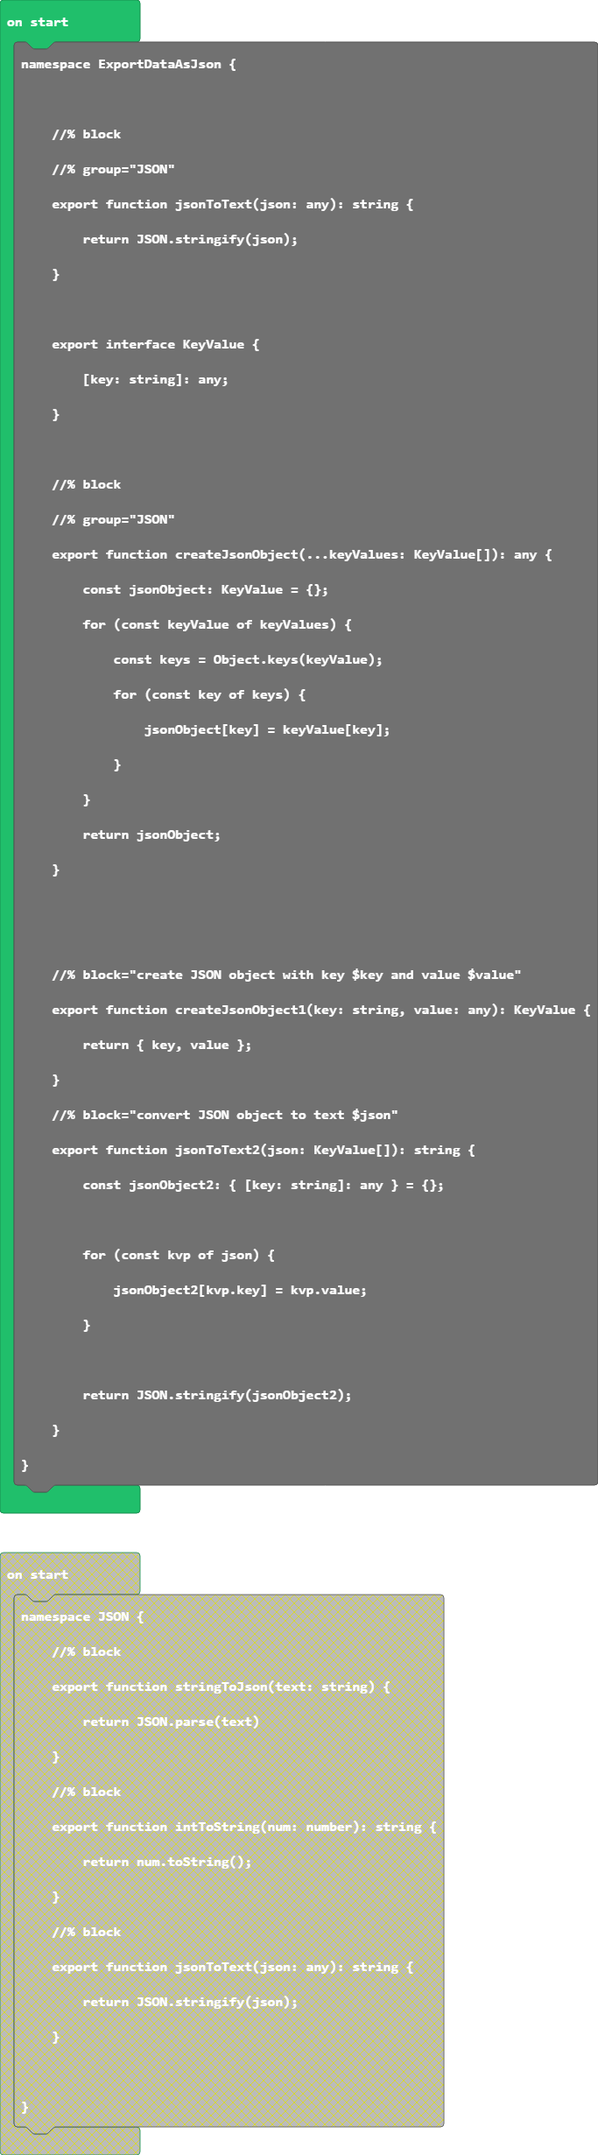
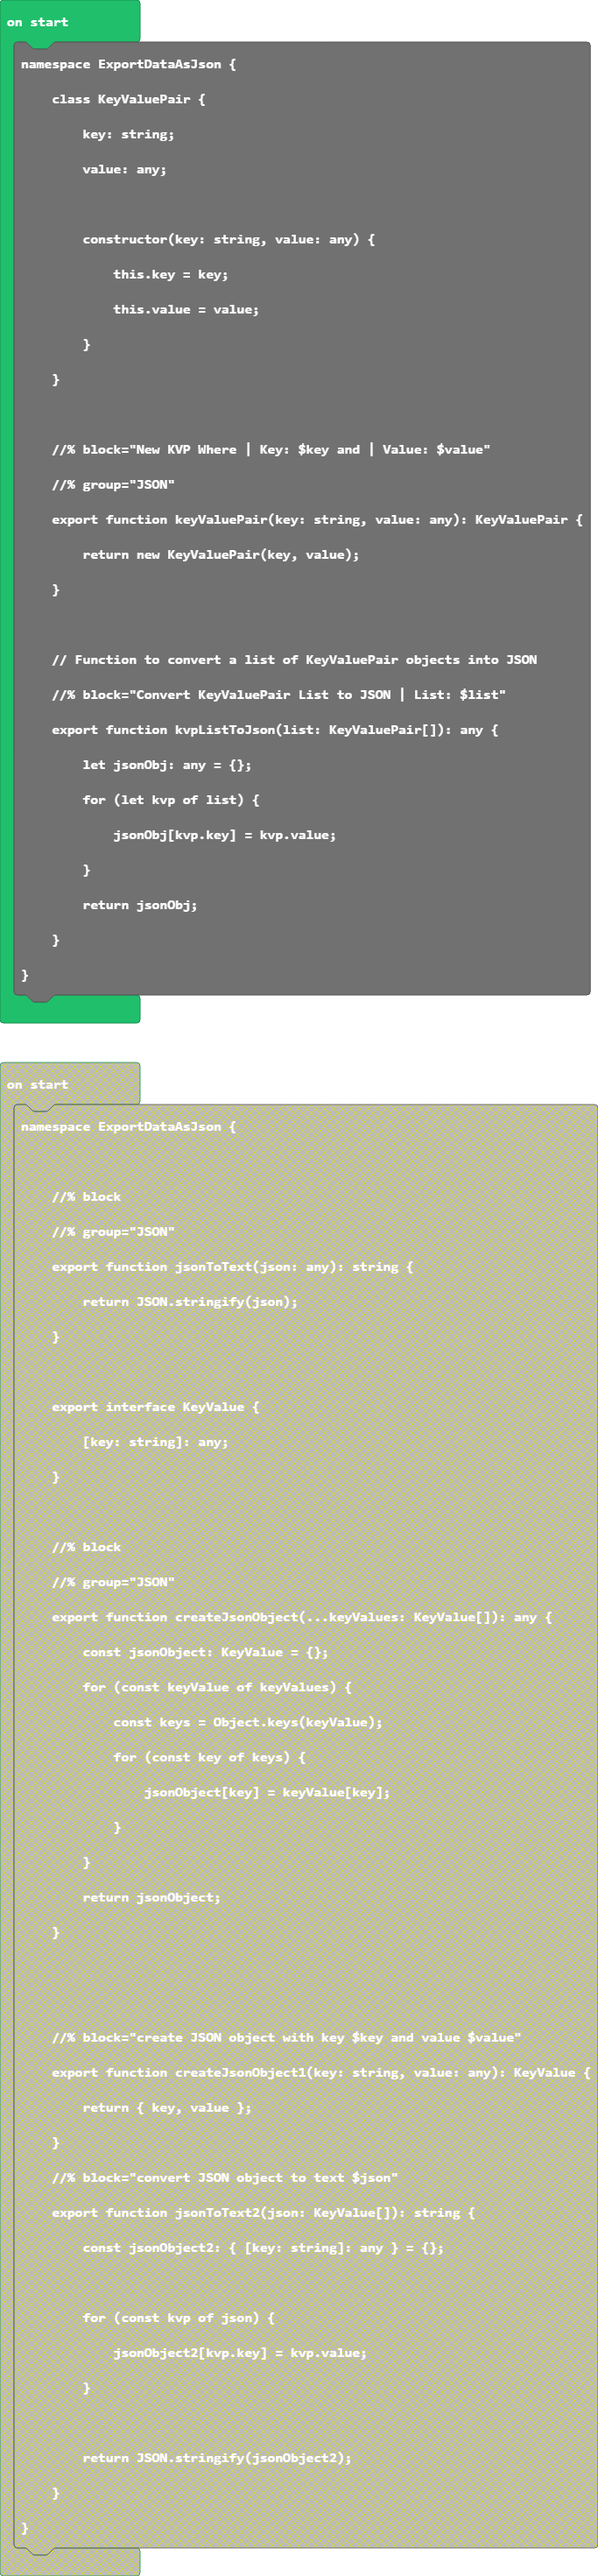
Updated Functions

diff --git a/main.ts b/main.ts
@@ -1,31 +1,7 @@
 //% color=190 weight=100 advanced=true icon="\uf0ae"
 //% groups=['JSON', 'others']
 namespace ExportDataAsJson {
-    
-    export interface KeyValue {
-        [key: string]: any;
-    }
-
-    //% block="create JSON object with key $key and value $value"
-    //% group="JSON"
-    export function createJsonObject1(key: string, value: any): KeyValue {
-        return { key, value };
-    }
-    //% block="convert JSON object to text $json"
-    //% group="JSON"
-    export function jsonToText(json: KeyValue[]): string {
-        const jsonObject2: { [key: string]: any } = {};
-
-        for (const kvp of json) {
-            jsonObject2[kvp.key] = kvp.value;
-        }
-
-        return JSON.stringify(jsonObject2);
-    }
-
-    //% block
-    //% group="JSON"
-    export class KeyValuePair {
+    class KeyValuePair {
         key: string;
         value: any;
 
@@ -33,5 +9,28 @@ namespace ExportDataAsJson {
             this.key = key;
             this.value = value;
         }
+    }
+    
+    //% block="New KVP with | Key: $key and | Value: $value"
+    //% group="JSON"
+    export function keyValuePair(key: string, value: any): KeyValuePair {
+        return new KeyValuePair(key, value);
+    }
+
+    // Function to convert a list of KeyValuePair objects into JSON
+    //% block="Convert kvp List to JSON using | List: $list"
+    //% group="JSON"
+    export function kvpListToJson(list: KeyValuePair[]): any {
+        let jsonObj: any = {};
+        for (let kvp of list) {
+            jsonObj[kvp.key] = kvp.value;
+        }
+        return jsonObj;
+    }
+
+    //% block="Convert JSON to Text | JSON: $jsonObj"
+    //% group="JSON"
+    export function jsonToText(jsonObj: any): string {
+        return JSON.stringify(jsonObj);
     }
 }
